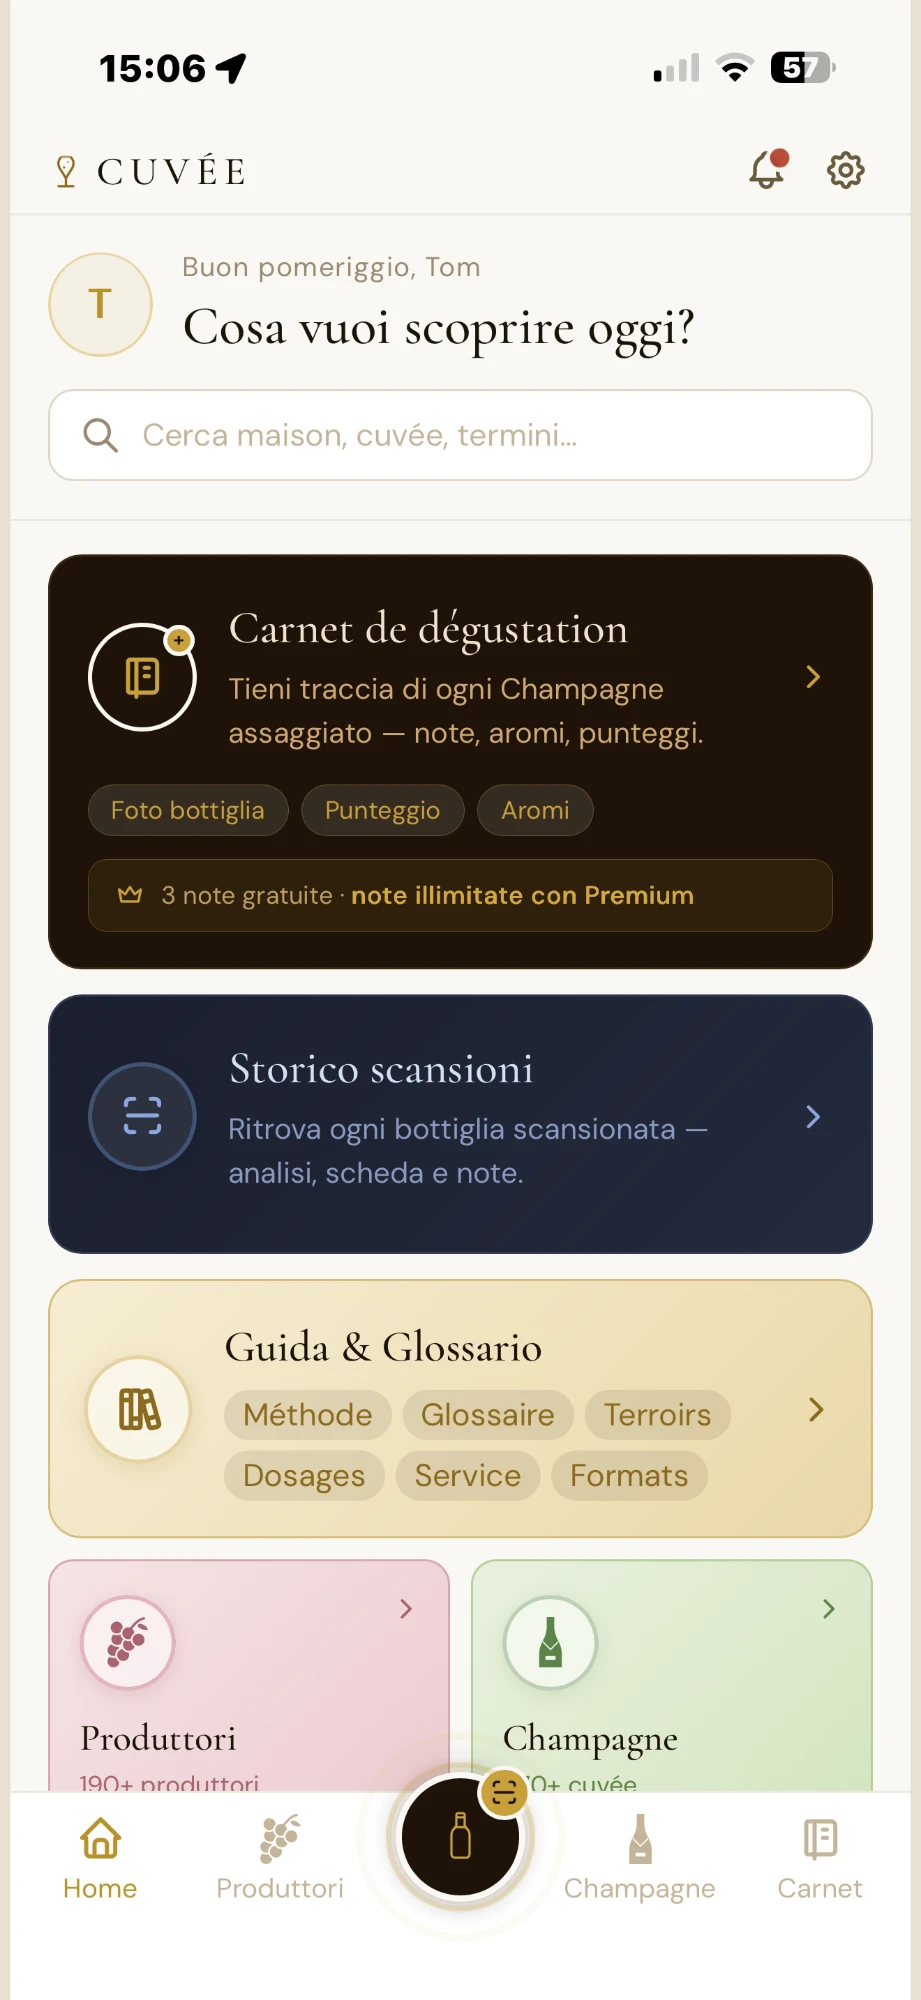
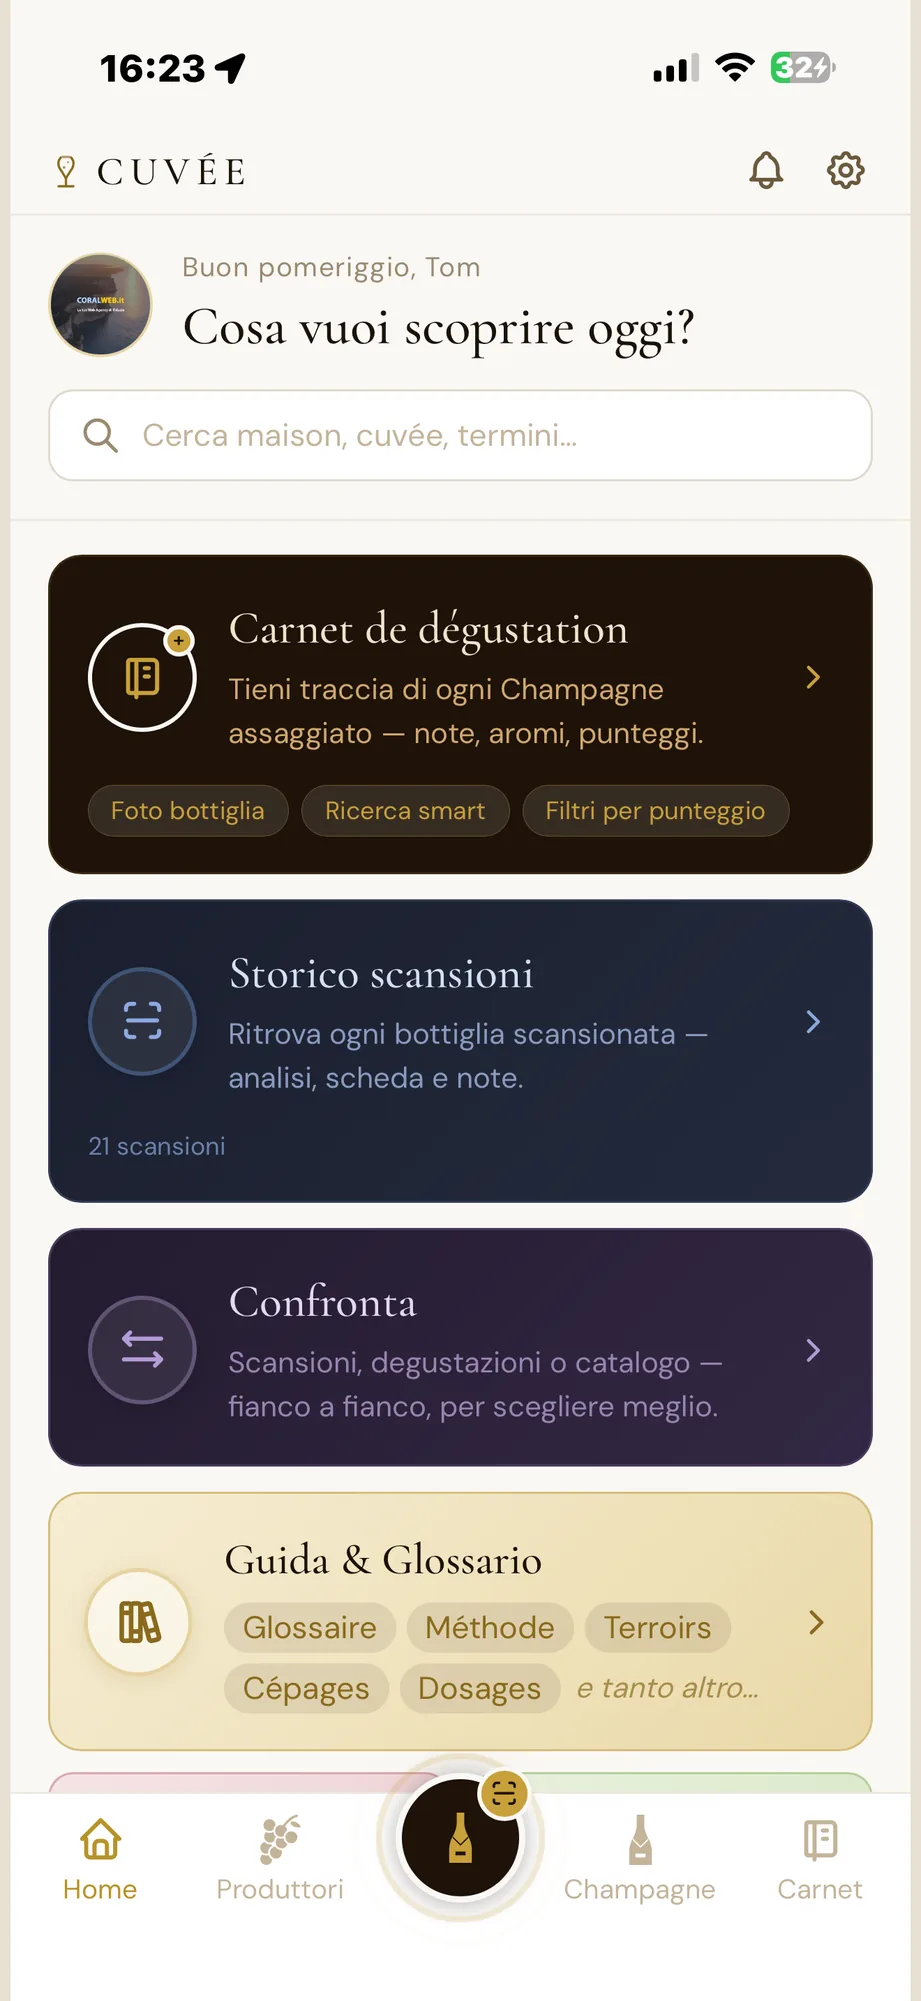
Landing: aggiorna tutti gli screenshot con le funzioni nuove, aggiunge una sezione dedicata al Carnet/verticali e l'icona del pulsante di scansione
La sezione "Come funziona" ora mostra due schermate (risultato scansione
+ scheda tecnica completa) invece di una sola, con l'icona del pulsante
di scansione in bella vista accanto ai telefoni. Nuova sezione "Carnet
de dégustation" che racconta anche le degustazioni multiple e le
verticali, con la lista del Carnet (pulsante Confronta incluso) e il
form della degustazione multipla. La galleria a scorrimento è
completamente rinnovata (home, carnet, degustazione multipla,
confronta, scansione, scheda tecnica) tranne l'ultima card, la scheda
Maison Dom Pérignon, lasciata invariata come richiesto.

diff --git a/landing/index.html b/landing/index.html
@@ -223,7 +223,9 @@ section{padding:110px 0;}
 
 /* ---------- SCAN SHOWCASE ---------- */
 .showcase{background:var(--ivory);}
+.showcase.alt-bg{background:var(--paper);}
 .showcase-grid{display:grid;grid-template-columns:1fr 1fr;gap:64px;align-items:center;}
+.showcase-grid.reverse .showcase-visual{order:-1;}
 @media (max-width:860px){.showcase-grid{grid-template-columns:1fr;gap:44px;}}
 .showcase-copy .eyebrow{margin-bottom:14px;}
 .showcase-copy h2{
@@ -255,8 +257,25 @@ section{padding:110px 0;}
 .phone-mock .screen .ring svg{width:26px;height:26px;stroke:var(--gold);}
 .phone-mock .screen small{font-size:11px;color:var(--text-muted);letter-spacing:.3px;}
 
+/* Coppia di schermate affiancate — stesso linguaggio del phone-mock singolo,
+   ma due riferimenti visivi invece di uno solo, per raccontare meglio un
+   flusso in due passaggi (es. risultato scansione + scheda tecnica) */
+.phone-duo{position:relative;display:flex;align-items:flex-end;justify-content:center;gap:22px;}
+.phone-duo .phone-mock{width:min(178px,42vw);margin:0;}
+.phone-duo .phone-mock:last-child{transform:translateY(34px);}
+@media (max-width:480px){
+  .phone-duo{gap:14px;}
+  .phone-duo .phone-mock:last-child{transform:translateY(20px);}
+}
+.scan-icon-float{
+  position:absolute;top:-8%;right:6%;width:76px;height:76px;
+  filter:drop-shadow(0 14px 26px rgba(30,18,8,.32));
+  transform:rotate(8deg);
+}
+@media (max-width:860px){.scan-icon-float{width:64px;height:64px;top:-6%;right:2%;}}
+
 /* ---------- SCREENSHOTS GALLERY (placeholder) ---------- */
-.gallery{background:var(--paper);}
+.gallery{background:var(--ivory);}
 .gallery-strip{
   display:flex;gap:22px;overflow-x:auto;padding:10px 4px 24px;
   scroll-snap-type:x proximity;
@@ -429,18 +448,57 @@ footer{background:var(--ink);color:var(--text-on-dark-soft);padding:56px 0 32px;
       <div class="showcase-copy reveal">
         <div class="eyebrow">Come funziona</div>
         <h2>Dalla foto al giudizio da sommelier, in tempo reale</h2>
-        <p>Basta la fotocamera del telefono. Cuvée analizza l'etichetta e restituisce un profilo completo della bottiglia — pensato per chi deve scegliere in fretta, ma senza rinunciare alla competenza.</p>
+        <p>Basta la fotocamera del telefono: un tocco sul pulsante di scansione in basso e Cuvée analizza l'etichetta, restituendo un profilo completo della bottiglia — pensato per chi deve scegliere in fretta, ma senza rinunciare alla competenza.</p>
         <ul class="check-list">
           <li><svg viewBox="0 0 24 24" fill="none" stroke-width="2" stroke-linecap="round" stroke-linejoin="round"><polyline points="20 6 9 17 4 12"/></svg> Riconoscimento istantaneo di Maison e cuvée</li>
           <li><svg viewBox="0 0 24 24" fill="none" stroke-width="2" stroke-linecap="round" stroke-linejoin="round"><polyline points="20 6 9 17 4 12"/></svg> Punteggio, dosaggio e finestra di consumo</li>
+          <li><svg viewBox="0 0 24 24" fill="none" stroke-width="2" stroke-linecap="round" stroke-linejoin="round"><polyline points="20 6 9 17 4 12"/></svg> Uvaggio, provenienza delle uve e vinificazione</li>
           <li><svg viewBox="0 0 24 24" fill="none" stroke-width="2" stroke-linecap="round" stroke-linejoin="round"><polyline points="20 6 9 17 4 12"/></svg> Abbinamenti gastronomici suggeriti</li>
-          <li><svg viewBox="0 0 24 24" fill="none" stroke-width="2" stroke-linecap="round" stroke-linejoin="round"><polyline points="20 6 9 17 4 12"/></svg> Salvataggio automatico nello storico</li>
         </ul>
       </div>
-      <div class="reveal">
-        <div class="phone-mock">
-          <div class="screen screen-photo">
-            <img src="screenshots/cuvee-champagne-scansione-etichetta-risultato.webp" alt="Risultato scansione etichetta Champagne Dom Pérignon nell'app Cuvée">
+      <div class="showcase-visual reveal">
+        <div class="phone-duo">
+          <img class="scan-icon-float" src="screenshots/cuvee-champagne-pulsante-scansione.webp" alt="Icona del pulsante di scansione sommelier di Cuvée">
+          <div class="phone-mock">
+            <div class="screen screen-photo">
+              <img src="screenshots/cuvee-champagne-scansione-etichetta-risultato.webp" alt="Risultato scansione etichetta Champagne nell'app Cuvée: punteggio, prezzo e schede">
+            </div>
+          </div>
+          <div class="phone-mock">
+            <div class="screen screen-photo">
+              <img src="screenshots/cuvee-champagne-scansione-scheda-tecnica.webp" alt="Scheda tecnica completa dopo la scansione: uvaggio, provenienza delle uve e vinificazione">
+            </div>
+          </div>
+        </div>
+      </div>
+    </div>
+  </div>
+</section>
+
+<section class="showcase alt-bg">
+  <div class="container">
+    <div class="showcase-grid reverse">
+      <div class="showcase-copy reveal">
+        <div class="eyebrow">Carnet de dégustation</div>
+        <h2>Ogni degustazione, anche le verticali, in un diario che ti somiglia</h2>
+        <p>Punteggio, note personali, aromi, colore e foto per ogni Champagne assaggiato. E quando la serata è una verticale o una degustazione a più bottiglie, la modalità multipla ti fa annotare tutta la sessione in un colpo solo — bottiglia dopo bottiglia — per poi confrontarle fianco a fianco con un tocco.</p>
+        <ul class="check-list">
+          <li><svg viewBox="0 0 24 24" fill="none" stroke-width="2" stroke-linecap="round" stroke-linejoin="round"><polyline points="20 6 9 17 4 12"/></svg> Degustazioni multiple e verticali, bottiglia per bottiglia</li>
+          <li><svg viewBox="0 0 24 24" fill="none" stroke-width="2" stroke-linecap="round" stroke-linejoin="round"><polyline points="20 6 9 17 4 12"/></svg> Aromi, colore, perlage e parametri sensoriali</li>
+          <li><svg viewBox="0 0 24 24" fill="none" stroke-width="2" stroke-linecap="round" stroke-linejoin="round"><polyline points="20 6 9 17 4 12"/></svg> Confronta le degustazioni salvate con un tocco</li>
+        </ul>
+      </div>
+      <div class="showcase-visual reveal">
+        <div class="phone-duo">
+          <div class="phone-mock">
+            <div class="screen screen-photo">
+              <img src="screenshots/cuvee-champagne-carnet-degustazione.webp" alt="Carnet de dégustation di Cuvée con le degustazioni salvate e il pulsante Confronta">
+            </div>
+          </div>
+          <div class="phone-mock">
+            <div class="screen screen-photo">
+              <img src="screenshots/cuvee-champagne-degustazione-multipla.webp" alt="Degustazione multipla in Cuvée: una verticale di Champagne annotata bottiglia per bottiglia">
+            </div>
           </div>
         </div>
       </div>
@@ -455,10 +513,12 @@ footer{background:var(--ink);color:var(--text-on-dark-soft);padding:56px 0 32px;
       <h2>Uno sguardo dentro Cuvée</h2>
     </div>
     <div class="gallery-strip reveal">
-      <div class="gallery-frame"><img src="screenshots/cuvee-champagne-app-home.webp" alt="Home dell'app Cuvée: catalogo Champagne, Carnet de dégustation e ricerca Maison" loading="lazy"></div>
-      <div class="gallery-frame"><img src="screenshots/cuvee-champagne-carnet-degustazione.webp" alt="Carnet de dégustation Cuvée con le degustazioni di Champagne salvate" loading="lazy"></div>
-      <div class="gallery-frame"><img src="screenshots/cuvee-champagne-nuova-degustazione.webp" alt="Nuova degustazione Champagne nel Carnet de dégustation di Cuvée" loading="lazy"></div>
-      <div class="gallery-frame"><img src="screenshots/cuvee-champagne-scansione-etichetta-risultato.webp" alt="Scansione etichetta Champagne in Cuvée: riconoscimento Dom Pérignon con punteggio e prezzo" loading="lazy"></div>
+      <div class="gallery-frame"><img src="screenshots/cuvee-champagne-app-home.webp" alt="Home dell'app Cuvée: Carnet de dégustation, Storico scansioni e Confronta" loading="lazy"></div>
+      <div class="gallery-frame"><img src="screenshots/cuvee-champagne-carnet-degustazione.webp" alt="Carnet de dégustation Cuvée con le degustazioni di Champagne salvate e il pulsante Confronta" loading="lazy"></div>
+      <div class="gallery-frame"><img src="screenshots/cuvee-champagne-degustazione-multipla.webp" alt="Degustazione multipla in Cuvée: una verticale di Champagne annotata bottiglia per bottiglia" loading="lazy"></div>
+      <div class="gallery-frame"><img src="screenshots/cuvee-champagne-confronta-bottiglie.webp" alt="Confronto fianco a fianco tra due degustazioni di Champagne in Cuvée" loading="lazy"></div>
+      <div class="gallery-frame"><img src="screenshots/cuvee-champagne-scansione-etichetta-risultato.webp" alt="Scansione etichetta Champagne in Cuvée: riconoscimento con punteggio e prezzo" loading="lazy"></div>
+      <div class="gallery-frame"><img src="screenshots/cuvee-champagne-scansione-scheda-tecnica.webp" alt="Scheda tecnica dopo la scansione: uvaggio, provenienza delle uve e vinificazione" loading="lazy"></div>
       <div class="gallery-frame"><img src="screenshots/cuvee-champagne-scheda-maison-dom-perignon.webp" alt="Scheda Maison Dom Pérignon nel catalogo Champagne di Cuvée" loading="lazy"></div>
     </div>
   </div>
